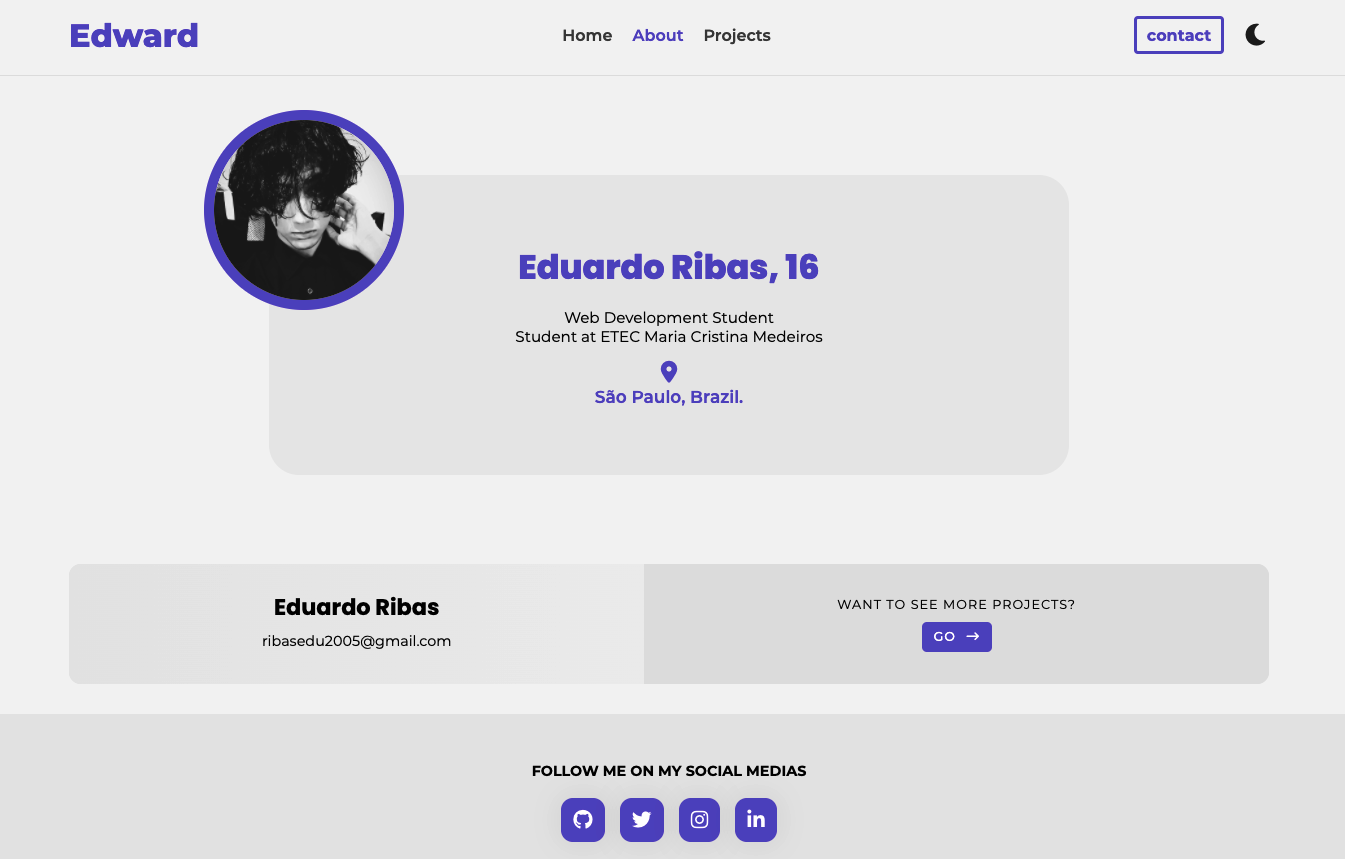
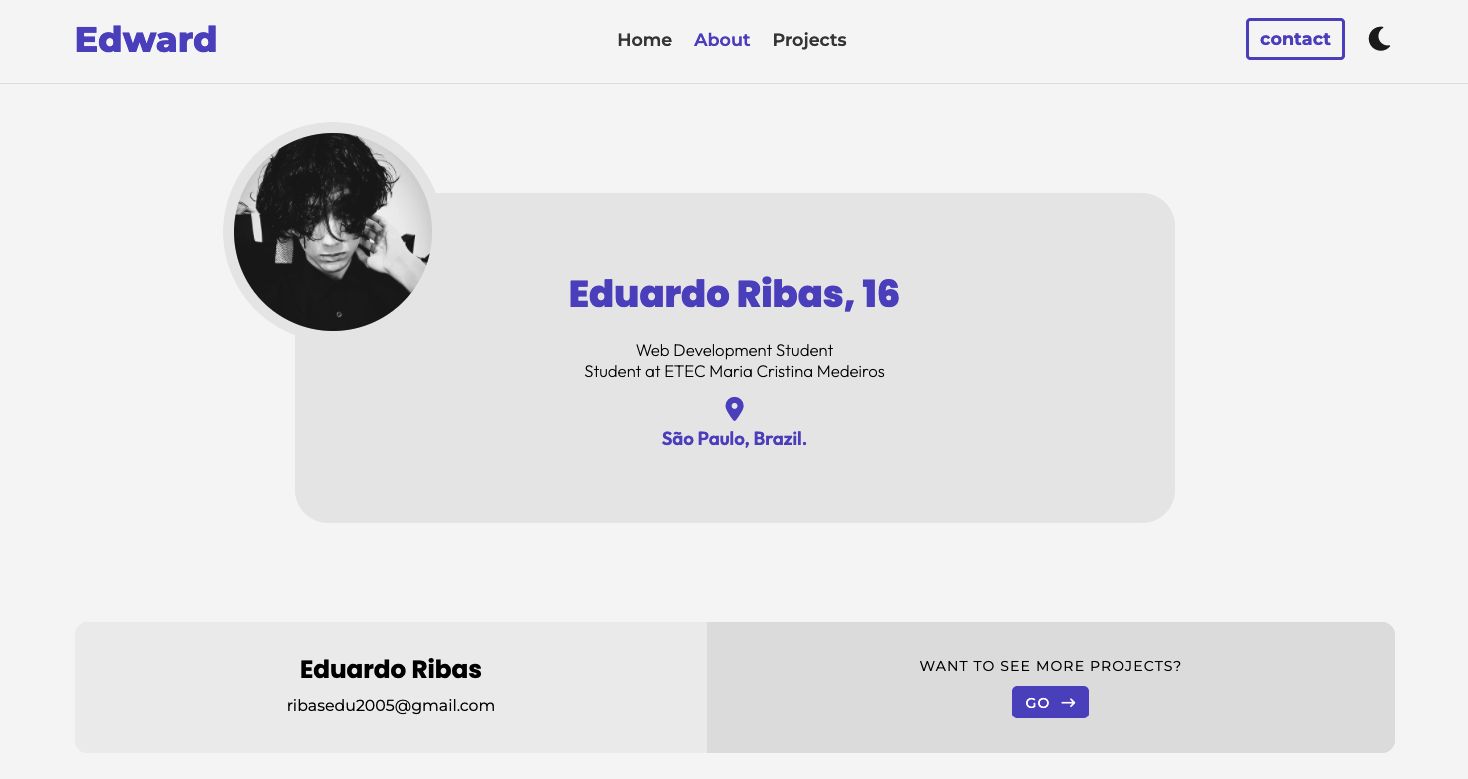
🚀 Some updates
;
git status
'

diff --git a/assets/css/styles.css b/assets/css/styles.css
@@ -12,6 +12,9 @@
     text-decoration: none;
     -webkit-tap-highlight-color: transparent;
 }
+*::selection{
+    background-color: rgba(94, 122, 245, 0.192);
+}
 html,body{
     height: 100%;
 }
@@ -58,10 +61,11 @@ body{
 
     --project-title: rgb(0,0,0);
     --project-text:rgb(0,0,0);
+    --project-border: rgb(242, 242, 242);
     --project-bg: rgb(255, 255, 255);
 
     --footer-bg: rgb(231, 231, 231);
-    --email-bg: linear-gradient(to right, rgb(231, 231, 231), rgb(238, 238, 238));
+    --email-bg: rgb(238, 238, 238);
     --email-title: rgb(0,0,0);
     --email-link: rgb(0,0,0);
 
@@ -77,15 +81,15 @@ body{
 }
 .dark{
     background-color: var(--body-bg);
-    --body-bg: rgb(19, 18, 18);
+    --body-bg: rgb(17, 17, 17);
     --scroll-bg: rgb(19, 18, 18);
     --header-border: rgb(41, 38, 38);
     --nav-link: rgb(188, 188, 188);
     --nav-logo: rgb(195, 195, 195);
-    --nav-bg: rgb(19, 18, 18);
+    --nav-bg: rgb(17, 17, 17);
     --toggler-icon: rgb(222, 222, 222);
     --burger-icon: rgb(230, 230, 230);
-    --m-nav-bg: rgb(19, 18, 18);
+    --m-nav-bg: rgb(17, 17, 17);
 
     --landing-title: rgb(94, 76, 199);
     --landing-text: rgb(182, 182, 182);
@@ -95,17 +99,18 @@ body{
     --lists-texts: rgb(182, 182, 182);
     --lists-i-color: rgb(94, 76, 199);
     --lists-h-i-color: rgb(255,255,255);
-    --lists-i-bg: rgb(29, 27, 27);
+    --lists-i-bg: rgb(20, 20, 20);
 
-    --about-main-bg: rgb(25, 23, 23);
+    --about-main-bg: rgb(24, 24, 24);
     --about-main-text: rgb(183, 183, 183);
 
     --project-title: rgb(234, 234, 234);
     --project-text:rgb(234, 234, 234);
-    --project-bg: rgb(27, 26, 26);
+    --project-border: rgb(17, 17, 17);
+    --project-bg: rgb(24, 24, 24);
 
-    --footer-bg: rgb(27, 25, 25);
-    --email-bg: linear-gradient(to right, rgb(27, 25, 25), rgb(27, 27, 27));
+    --footer-bg: rgb(27, 27, 27);
+    --email-bg: rgb(27, 27, 27);
     --email-title: rgb(226, 226, 226);
     --email-link: rgb(223, 223, 223);
     
@@ -154,6 +159,7 @@ nav > ul{
     gap: 20px;
 }
 nav > ul a{
+    position: relative;
     color: var(--nav-link);
     font-size: 1em;
     font-weight: 600;
@@ -274,11 +280,13 @@ footer{
     font-family: 'Poppins', sans-serif;
     font-size: 1.4em;
     color: var(--email-title);
+    transition: color .2s ease;
 }
 #email a{
     display: inline;
     font-size: .9em;
-    color: var(--email-link)
+    color: var(--email-link);
+    transition: color .2s ease;
 }
 #email a::after{
     content: '';
@@ -313,8 +321,10 @@ footer{
     font-size: .8em;
     text-transform: uppercase;
     letter-spacing: 1px;
+    transition: color .2s ease
 }
 #repositories a{
+    user-select: none;
     display: flex;
     justify-content: center;
     align-items: center;
@@ -331,10 +341,13 @@ footer{
     transition: color .3s, background-color .3s;
 }
 #repositories i{
+    transform: translateY(.75px);
+    -webkit-transform: translateY(.75px);
+    -moz-transform: translateY(.75px);
     transition: transform .3s ease;
 }
 #repositories a:hover i{
-    transform: translateX(4px)
+    transform: translate(4px, 1px)
 }
 
 #social{
@@ -347,6 +360,7 @@ footer{
     text-transform: uppercase;
     margin-bottom: 20px;
     color: var(--social-title);
+    transition: color .2s ease;
 }
 #social ul{
     display: flex;
@@ -413,9 +427,36 @@ footer{
     gap: 5px;
     color: var(--info-text);
     text-align: center;
+    transition: border-top .2s ease;
 }
 #info p{
     font-size: .9em;
+    transition: color .2s ease;
+}
+#info a{
+    position: relative;
+    font-size: .85em;
+    font-weight: 500;
+    color: var(--info-text);
+    transition: color .2s ease;
+}
+#info a::after{
+    content: '';
+    display: block;
+    
+    position: absolute;
+    bottom: -5px;
+    left: 50%;
+    transform: translateX(-50%);
+    
+    height: 2px;
+    background-color:rgb(94, 76, 199) ;
+    width: 0;
+
+    transition: width .2s ease;
+}
+#info a:hover::after{
+    width: 80%;
 }
 #info b{
     font-weight: 900;
@@ -430,6 +471,26 @@ footer{
 }
 /* Media Queries */
 
+@media(min-width: 751px){
+    nav > ul a::after{
+        content: '';
+        display: block;
+        
+        position: absolute;
+        bottom: -8px;
+        left: 50%;
+        transform: translateX(-50%);
+        
+        height: 2px;
+        background-color:rgb(94, 76, 199) ;
+        width: 0;
+
+        transition: width .2s ease;
+    }
+    nav > ul a:hover::after{
+        width: 70%;
+    }
+}
 @media(max-width: 750px){
     .burger{
         display: inline;

diff --git a/projects.html b/projects.html
@@ -6,6 +6,13 @@
     <meta http-equiv="X-UA-Compatible" content="IE=edge">
     <meta name="viewport" content="width=device-width, initial-scale=1.0">
 
+    <meta name="author" content="Eduardo Ribas">
+    <meta property="og:title" content="Eduardo's Portfolio | My Projects">
+    <meta property="og:url" content="http://edwardribas.github.io">
+    <meta property="og:image" content="https://i.imgur.com/bksOEqW.jpg">
+    <meta property="og:description" content="Take a good look on my projects!">
+    <meta name="theme-color" content="#5e4cc7">
+
     <script src="https://kit.fontawesome.com/932eb47ff0.js" crossorigin="anonymous"></script>
     <link rel="stylesheet" href="assets/css/styles.css">
     <link rel="stylesheet" href="assets/css/projects.css">
@@ -80,7 +87,7 @@
                 </div>
                 <div class="desc">
                     <h3>Smart-Toys</h3>
-                    <p>A school project about some company.</p>
+                    <p>A school project about a company.</p>
                     <div class="links">
                         <a href="https://edwardribas.github.io/smart-toys/" target="_blank">Visit</a>
                         <a href="https://github.com/edwardribas/smart-toys" target="_blank">Github</a>
@@ -138,8 +145,9 @@
             </div>
 
             <div id="info">
-                <p>2021 &copy; <b>Eduardo Ribas</b>.</p>
+                <p>2022 &copy; <b>Eduardo Ribas</b>.</p>
                 <p>Hope you liked it. Visit my Github.</p>
+                <a href="https://rodrigocarvalho.net/" target="_blank">Visit inspiration</a>
             </div>
         </div>
     </footer>

diff --git a/index.html b/index.html
@@ -6,6 +6,13 @@
     <meta http-equiv="X-UA-Compatible" content="IE=edge">
     <meta name="viewport" content="width=device-width, initial-scale=1.0">
 
+    <meta name="author" content="Eduardo Ribas">
+    <meta property="og:title" content="Eduardo's Portfolio">
+    <meta property="og:url" content="http://edwardribas.github.io">
+    <meta property="og:image" content="https://i.imgur.com/bksOEqW.jpg">
+    <meta property="og:description" content="Take a look on my portfolio and my projects!">
+    <meta name="theme-color" content="#5e4cc7">
+
     <script src="https://kit.fontawesome.com/932eb47ff0.js" crossorigin="anonymous"></script>
     <link rel="stylesheet" href="assets/css/styles.css">
     <link rel="stylesheet" href="assets/css/main.css">
@@ -49,7 +56,7 @@
             <ul>
                 <li>
                     <i class="fa-solid fa-calendar-days"></i>
-                    <p>16 years old</p>
+                    <p>17 years old</p>
                 </li>
                 <li>
                     <i class="fa-solid fa-code"></i>
@@ -97,8 +104,9 @@
             </div>
 
             <div id="info">
-                <p>2021 &copy; <b>Eduardo Ribas</b>.</p>
+                <p>2022 &copy; <b>Eduardo Ribas</b>.</p>
                 <p>Hope you liked it. Visit my Github.</p>
+                <a href="https://rodrigocarvalho.net/" target="_blank">Visit inspiration</a>
             </div>
         </div>
     </footer>

diff --git a/about.html b/about.html
@@ -6,6 +6,13 @@
     <meta http-equiv="X-UA-Compatible" content="IE=edge">
     <meta name="viewport" content="width=device-width, initial-scale=1.0">
 
+    <meta name="author" content="Eduardo Ribas">
+    <meta property="og:title" content="Eduardo's Portfolio | About Me">
+    <meta property="og:url" content="http://edwardribas.github.io">
+    <meta property="og:image" content="https://i.imgur.com/bksOEqW.jpg">
+    <meta property="og:description" content="There's a little bit about me here.">
+    <meta name="theme-color" content="#5e4cc7">
+
     <script src="https://kit.fontawesome.com/932eb47ff0.js" crossorigin="anonymous"></script>
     <link rel="stylesheet" href="assets/css/styles.css">
     <link rel="stylesheet" href="assets/css/about.css">
@@ -92,8 +99,9 @@
             </div>
 
             <div id="info">
-                <p>2021 &copy; <b>Eduardo Ribas</b>.</p>
+                <p>2022 &copy; <b>Eduardo Ribas</b>.</p>
                 <p>Hope you liked it. Visit my Github.</p>
+                <a href="https://rodrigocarvalho.net/" target="_blank">Visit inspiration</a>
             </div>
         </div>
     </footer>

diff --git a/assets/css/projects.css b/assets/css/projects.css
@@ -23,13 +23,10 @@ img{
     max-width: 350px;
     background-color: var(--project-bg);
     border-radius: 16px;
-    box-shadow: 2px 3px 30px rgba(0, 0, 0, 0.14);
+    border: 1px solid var(--project-border);
     overflow: hidden;
-    -webkit-mask-image: -webkit-radial-gradient(white, black);
-    transition: box-shadow .5s, background-color .3s ease;
-}
-.project:hover{
-    box-shadow: 2px 3px 30px rgba(0, 0, 0, 0.204);
+    -webkit-mask-image: -webkit-radial-gradient(white, black); /* temporário */
+    transition: box-shadow .5s, background-color .3s ease, border .2s;
 }
 .project:hover .p-image img{
     transform: scale(1.1);
@@ -37,6 +34,7 @@ img{
 .p-image{
     overflow: hidden;
     width: 100%;
+    border-radius: 16px 16px 0 0;
 }
 .p-image img{
     display: block;

diff --git a/assets/css/about.css b/assets/css/about.css
@@ -55,12 +55,17 @@ img{
     transition: transform .3s;
 }
 #about{
+    font-family: 'Outfit', sans-serif;
     margin: 15px auto;
     font-size: .95rem;
+    font-weight: 300;
     color: var(--about-main-text);
+    transition: color .2s ease;
 }
 #location{
     display: block;
+    font-weight: 400;
+    font-family: 'Outfit', sans-serif;
     color:rgb(94, 76, 199);
     font-weight: 600;
     font-size: 17px;

diff --git a/assets/css/main.css b/assets/css/main.css
@@ -46,6 +46,7 @@
 /* Section List */
 
 #landing ul{
+    user-select: none;
     display: grid;
     grid-template-columns: 1fr 1fr 1fr;
     justify-content: center;
